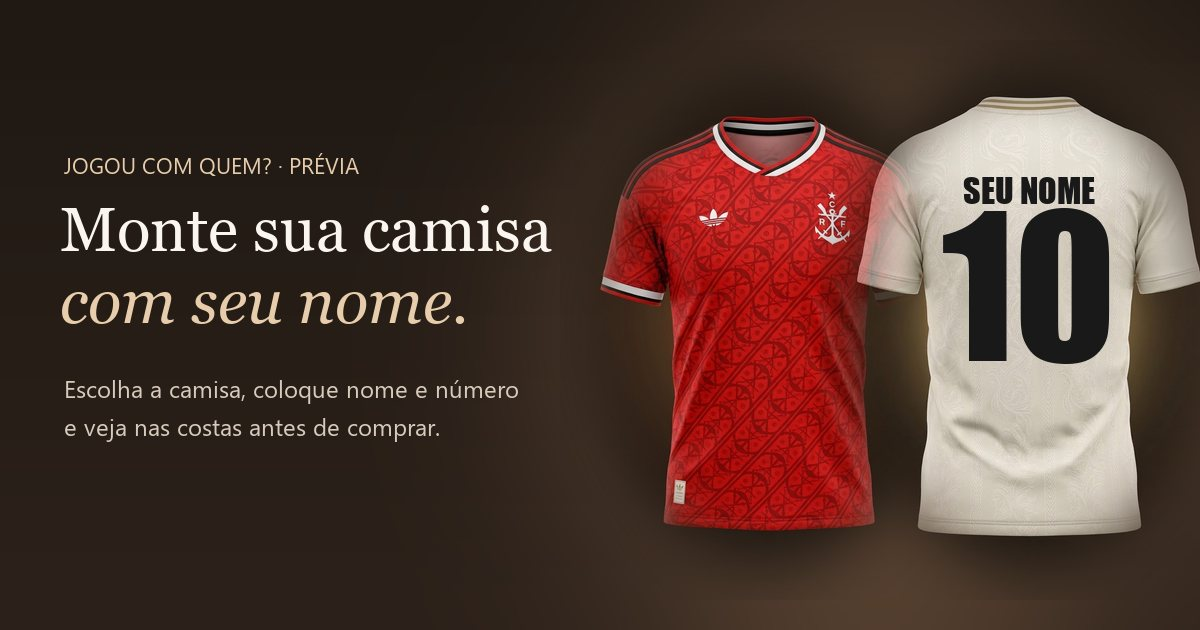
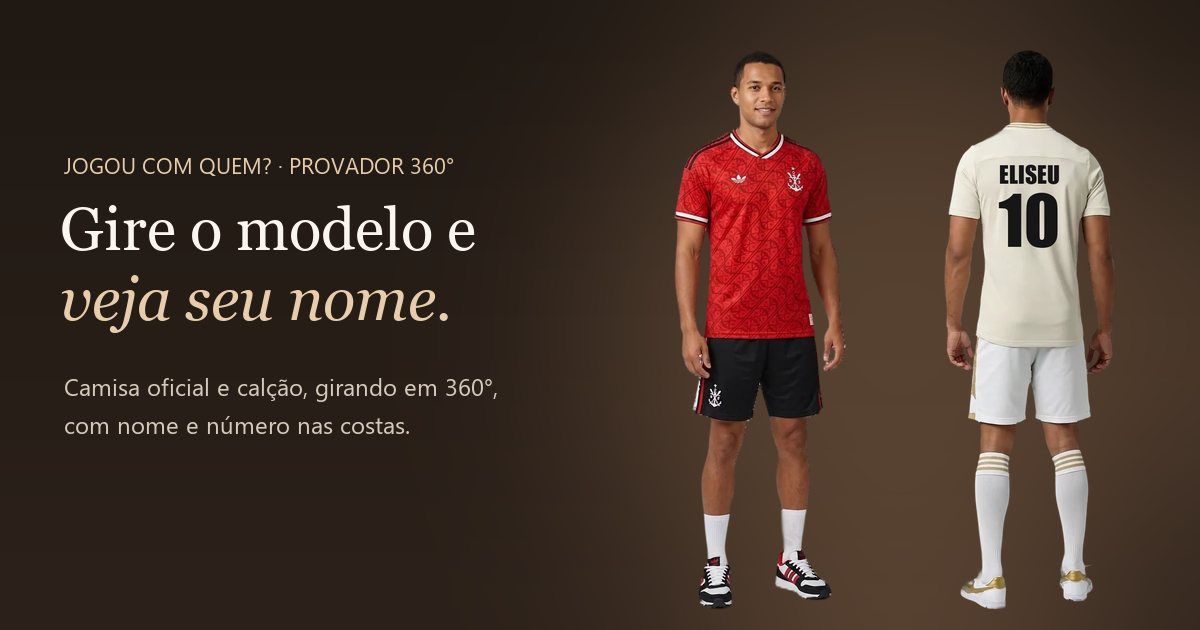
JCQ: provador 360 com modelo, nome e numero nas costas

diff --git a/demo/jcq/index.html b/demo/jcq/index.html
@@ -5,9 +5,9 @@
 <meta name="viewport" content="width=device-width, initial-scale=1.0, viewport-fit=cover" />
 <meta name="robots" content="noindex, nofollow" />
 <meta name="theme-color" content="#14100d" />
-<title>Monte sua camisa · Prévia</title>
-<meta property="og:title" content="Monte sua camisa com seu nome e número" />
-<meta property="og:description" content="Escolha a camisa, coloque seu nome e número e veja nas costas antes de comprar." />
+<title>Provador 360° · Jogou com Quem?</title>
+<meta property="og:title" content="Provador 360° · Monte sua camisa com seu nome" />
+<meta property="og:description" content="Gire o modelo com o dedo, coloque seu nome e número e veja nas costas antes de comprar." />
 <meta property="og:image" content="https://creativealways.com.br/demo/jcq/img/og.jpg" />
 <meta property="og:image:width" content="1200" />
 <meta property="og:image:height" content="630" />
@@ -17,151 +17,185 @@
 <style>
   :root { --bg:#14100d; --card:#1f1813; --line:rgba(250,246,239,.14); --gold:#e7cdac; --txt:#faf6ef; --mute:rgba(250,246,239,.62); }
   * { box-sizing:border-box; margin:0; padding:0; -webkit-tap-highlight-color:transparent; }
-  html, body { background:var(--bg); color:var(--txt); font-family:'Plus Jakarta Sans', system-ui, sans-serif; }
+  html, body { background:var(--bg); color:var(--txt); font-family:'Plus Jakarta Sans', system-ui, sans-serif; overflow-x:hidden; }
   body { min-height:100vh; min-height:100dvh; display:flex; flex-direction:column; align-items:center;
-    background: radial-gradient(ellipse 70% 50% at 50% 34%, rgba(150,112,82,.28), transparent 70%), linear-gradient(180deg,#1f1813,#14100d); }
-  header { width:100%; max-width:520px; padding:16px 16px 6px; display:flex; justify-content:space-between; align-items:center; }
-  .brand { font-weight:700; font-size:15px; letter-spacing:.02em; }
+    background: radial-gradient(ellipse 60% 42% at 50% 30%, rgba(150,112,82,.30), transparent 72%), linear-gradient(180deg,#1f1813,#14100d); }
+  body::before { content:'Jogou com Quem?'; position:fixed; left:50%; top:30%; transform:translate(-50%,-50%); font-family:Georgia, serif; font-style:italic;
+    font-size:clamp(64px, 17vw, 200px); color:rgba(235,210,181,.05); white-space:nowrap; pointer-events:none; z-index:0; }
+  header, main, footer { position:relative; z-index:1; }
+  header { width:100%; max-width:520px; padding:14px 16px 0; display:flex; justify-content:space-between; align-items:center; }
+  .brand { font-weight:700; font-size:15px; }
   .brand small { display:block; font-weight:500; font-size:10.5px; letter-spacing:.16em; text-transform:uppercase; color:var(--gold); }
   .tag { font-size:10px; letter-spacing:.14em; text-transform:uppercase; color:var(--mute); border:1px solid var(--line); padding:5px 9px; border-radius:99px; }
-  main { width:100%; max-width:520px; padding:0 16px 24px; display:flex; flex-direction:column; gap:14px; }
-  .stage { position:relative; width:100%; aspect-ratio:896/1200; max-height:56vh; margin:0 auto; perspective:1400px; touch-action:pan-y; cursor:grab; }
-  .flip { position:absolute; inset:0; transform-style:preserve-3d; transition:transform .6s cubic-bezier(.22,1,.36,1); }
-  .flip.is-back { transform:rotateY(180deg); }
-  .face { position:absolute; inset:0; backface-visibility:hidden; -webkit-backface-visibility:hidden; display:flex; justify-content:center; }
-  .face img { height:100%; width:auto; max-width:100%; object-fit:contain; display:block; user-select:none; -webkit-user-drag:none; pointer-events:none;
-    -webkit-mask-image: radial-gradient(ellipse 62% 58% at 50% 48%, #000 72%, transparent 100%); mask-image: radial-gradient(ellipse 62% 58% at 50% 48%, #000 72%, transparent 100%); }
-  html, body { overflow-x:hidden; }
-  .toggle, .shirts { grid-template-columns:minmax(0,1fr) minmax(0,1fr); }
-  .shirt { min-width:0; }
+  main { width:100%; max-width:520px; padding:0 16px 20px; display:flex; flex-direction:column; gap:12px; }
+  .stage { position:relative; width:min(100%, 46vh); aspect-ratio:760/1240; margin:0 auto; touch-action:none; cursor:grab; overflow:hidden; }
+  .zoomwrap { position:absolute; inset:0; transform-origin:50% 50%; transition:scale .15s ease-out, translate .1s ease-out; }
+  .frame { position:absolute; inset:0; width:100%; height:100%; object-fit:contain; opacity:0; pointer-events:none; user-select:none; -webkit-user-drag:none; }
+  .frame.on { opacity:1; }
+  .print { position:absolute; transform-origin:50% 0; text-align:center; font-family:'Anton', Impact, sans-serif; text-transform:uppercase; line-height:1; pointer-events:none; white-space:nowrap; }
+  .print .n { display:block; letter-spacing:.05em; }
+  .print .k { display:block; letter-spacing:-.01em; }
+  .print.light { color:#fff; text-shadow:0 1px 0 rgba(0,0,0,.18); }
+  .print.dark { color:#161616; mix-blend-mode:multiply; }
+  .zoom-reset { position:absolute; left:50%; top:8px; transform:translateX(-50%); z-index:5; display:none; padding:8px 14px; border-radius:99px;
+    background:rgba(18,14,11,.85); border:1px solid rgba(235,210,181,.4); color:var(--gold); font-size:12px; font-weight:600; }
+  .stage.zoomed .zoom-reset { display:block; }
+  .ctrl { display:flex; justify-content:center; align-items:center; gap:10px; margin-top:-2px; }
+  .ctrl button { width:40px; height:40px; border-radius:50%; border:1px solid var(--line); background:rgba(255,255,255,.04); color:var(--txt); font-size:18px; }
+  .ctrl span { font-size:12px; color:var(--mute); min-width:150px; text-align:center; }
+  .shirts { display:grid; grid-template-columns:minmax(0,1fr) minmax(0,1fr); gap:10px; }
+  .shirt { display:flex; gap:10px; align-items:center; padding:8px; border-radius:14px; border:1px solid var(--line); background:var(--card); text-align:left; color:var(--txt); min-width:0; }
+  .shirt img { width:42px; height:68px; object-fit:cover; border-radius:8px; background:#2a211b; }
   .shirt > span { min-width:0; }
-  .shirt b { white-space:nowrap; overflow:hidden; text-overflow:ellipsis; }
-  .fields { grid-template-columns:minmax(0,1fr) 92px; }
-  .face.back { transform:rotateY(180deg); }
-  .print { position:absolute; left:0; right:0; text-align:center; font-family:'Anton', Impact, sans-serif; text-transform:uppercase; pointer-events:none; line-height:1; }
-  .print.name { top:24%; font-size:min(6.2vw, 30px); letter-spacing:.06em; }
-  .print.num { top:31%; font-size:min(33vw, 168px); letter-spacing:-.01em; }
-  .print.light { color:#fff; text-shadow:0 1px 0 rgba(0,0,0,.18); opacity:.96; }
-  .print.dark { color:#151515; mix-blend-mode:multiply; opacity:.92; }
-  .hint { text-align:center; font-size:12px; color:var(--mute); margin-top:-4px; }
-  .toggle { display:grid; grid-template-columns:1fr 1fr; gap:8px; }
-  .btn { padding:12px; border-radius:12px; border:1px solid var(--line); background:rgba(255,255,255,.04); color:var(--txt); font-weight:600; font-size:14px; }
-  .btn.on { background:var(--gold); color:#191410; border-color:var(--gold); }
-  .shirts { display:grid; grid-template-columns:1fr 1fr; gap:10px; }
-  .shirt { display:flex; gap:10px; align-items:center; padding:8px; border-radius:14px; border:1px solid var(--line); background:var(--card); text-align:left; color:var(--txt); }
-  .shirt img { width:46px; height:60px; object-fit:cover; border-radius:8px; }
-  .shirt b { display:block; font-size:13px; }
-  .shirt span { font-size:11.5px; color:var(--mute); }
+  .shirt b { display:block; font-size:13px; white-space:nowrap; overflow:hidden; text-overflow:ellipsis; }
+  .shirt small { font-size:11.5px; color:var(--mute); }
   .shirt.on { border-color:var(--gold); box-shadow:0 0 0 1px var(--gold) inset; }
-  .fields { display:grid; grid-template-columns:1fr 92px; gap:10px; }
+  .fields { display:grid; grid-template-columns:minmax(0,1fr) 92px; gap:10px; }
   label { font-size:11.5px; color:var(--mute); display:block; margin-bottom:6px; }
-  input { width:100%; padding:13px 14px; border-radius:12px; border:1px solid var(--line); background:#120e0b; color:var(--txt); font-size:16px; font-weight:600; text-transform:uppercase; }
+  input { width:100%; padding:12px 14px; border-radius:12px; border:1px solid var(--line); background:#120e0b; color:var(--txt); font-size:16px; font-weight:600; text-transform:uppercase; }
   input:focus { outline:none; border-color:var(--gold); }
   .row { display:flex; gap:8px; flex-wrap:wrap; }
   .chip { padding:9px 12px; border-radius:10px; border:1px solid var(--line); background:rgba(255,255,255,.04); color:var(--txt); font-weight:600; font-size:13px; }
   .chip.on { background:var(--gold); color:#191410; border-color:var(--gold); }
   .price { display:flex; justify-content:space-between; align-items:center; padding:12px 14px; border-radius:14px; background:var(--card); border:1px solid var(--line); }
+  .price span { font-size:13px; color:var(--mute); }
   .price b { font-size:20px; color:var(--gold); }
   .cta { display:block; text-align:center; text-decoration:none; padding:15px; border-radius:99px; background:linear-gradient(135deg,#f1dcc0,#c9a07a); color:#191410; font-weight:700; font-size:15px; }
   footer { font-size:10.5px; letter-spacing:.14em; text-transform:uppercase; color:var(--mute); text-align:center; padding:4px 0 18px; }
+  @media (pointer: coarse) { .frame { transition:none; } }
 </style>
 </head>
 <body>
 <header>
-  <div class="brand">Jogou com Quem?<small>Monte sua camisa</small></div>
+  <div class="brand">Jogou com Quem?<small>Provador 360°</small></div>
   <span class="tag">Prévia</span>
 </header>
 <main>
   <div class="stage" id="stage">
-    <div class="flip" id="flip">
-      <div class="face front"><img id="imgFront" alt="Camisa de frente" /></div>
-      <div class="face back"><img id="imgBack" alt="Camisa de costas" />
-        <div class="print name" id="pName"></div>
-        <div class="print num" id="pNum"></div>
-      </div>
+    <div class="zoomwrap" id="zw">
+      <div id="frames"></div>
+      <div class="print" id="print"><span class="n" id="pN"></span><span class="k" id="pK"></span></div>
     </div>
+    <button class="zoom-reset" id="zr" type="button">Voltar ao tamanho normal</button>
   </div>
-  <p class="hint">Arraste para o lado ou toque nos botões para virar a camisa</p>
-  <div class="toggle">
-    <button class="btn on" id="bFront" type="button">Frente</button>
-    <button class="btn" id="bBack" type="button">Costas</button>
-  </div>
+  <div class="ctrl"><button type="button" id="prev" aria-label="Girar para a esquerda">‹</button><span id="hint">Arraste para girar · pinça para zoom</span><button type="button" id="next" aria-label="Girar para a direita">›</button></div>
   <div class="shirts" id="shirts"></div>
   <div class="fields">
     <div><label for="iName">Nome nas costas</label><input id="iName" maxlength="12" placeholder="SEU NOME" autocomplete="off" /></div>
     <div><label for="iNum">Número</label><input id="iNum" inputmode="numeric" maxlength="2" placeholder="10" autocomplete="off" /></div>
   </div>
-  <div>
-    <label>Versão</label>
-    <div class="row" id="vers"></div>
-  </div>
-  <div>
-    <label>Tamanho</label>
-    <div class="row" id="sizes"></div>
-  </div>
-  <div class="price"><span id="sum">Camisa torcedor</span><b id="val">R$ 179,90</b></div>
+  <div><label>Versão</label><div class="row" id="vers"></div></div>
+  <div><label>Tamanho</label><div class="row" id="sizes"></div></div>
+  <div class="price"><span id="sum"></span><b id="val"></b></div>
   <a class="cta" id="cta" target="_blank" rel="noopener">Quero essa no WhatsApp</a>
 </main>
 <footer>Prévia · Creative Always</footer>
+<script src="print.js?v=1"></script>
 <script>
 (() => {
-  const SHIRTS = [
-    { id: 'fla', name: 'Flamengo III 26/27', front: 'img/fla_frente.jpg', back: 'img/fla_costas.jpg', ink: 'light' },
-    { id: 'vasco', name: 'Vasco Círio de Nazaré 26', front: 'img/vasco_frente.jpg', back: 'img/vasco_costas.jpg', ink: 'dark' }
+  const V = '?v=1';
+  const KITS = [
+    { id: 'fla', name: 'Flamengo III 26/27', kit: 'camisa + calção', ink: 'light' },
+    { id: 'vasco', name: 'Vasco Círio de Nazaré 26', kit: 'camisa + calção', ink: 'dark' }
   ];
   const VERS = [{ id: 'Torcedor', price: 'R$ 179,90' }, { id: 'Jogador', price: 'R$ 199,90' }];
   const SIZES = ['P', 'M', 'G', 'GG', 'Infantil'];
   const WA = '5527988140076';
-  const st = { shirt: SHIRTS[0], ver: VERS[0], size: 'M', back: false };
+  const N = 24;
   const $ = (s) => document.querySelector(s);
-  const flip = $('#flip');
+  const q = new URLSearchParams(location.search);
+  const st = { kit: KITS.find((k) => k.id === q.get('camisa')) || KITS[0], ver: VERS[0], size: 'M', deg: 0, target: 0, vel: 0, drag: false, auto: true };
+  if (q.get('angulo')) { st.deg = st.target = Number(q.get('angulo')) || 0; st.auto = false; }
+  $('#iName').value = (q.get('nome') || 'ELISEU').slice(0, 12);
+  $('#iNum').value = (q.get('numero') || '10').replace(/\D/g, '').slice(0, 2);
 
-  // pré-carrega as 4 fotos (são poucas e leves)
-  SHIRTS.forEach((s) => { [s.front, s.back].forEach((u) => { const i = new Image(); i.src = u; }); });
+  const src = (k, i) => `img/f/${k}_${String(i * 15).padStart(3, '0')}.webp${V}`;
+  let imgs = [];
+  function mount() {
+    const box = $('#frames'); box.innerHTML = '';
+    imgs = Array.from({ length: N }, (_, i) => { const im = document.createElement('img'); im.className = 'frame'; im.alt = ''; im.decoding = 'async'; im.src = src(st.kit.id, i); box.appendChild(im); return im; });
+    cur = -1; draw();
+  }
+  // pré-carrega a outra camisa depois de um tempo, sem travar a abertura
+  setTimeout(() => KITS.forEach((k) => { if (k !== st.kit) for (let i = 0; i < N; i++) { const im = new Image(); im.src = src(k.id, i); } }), 3500);
 
-  function render() {
-    $('#imgFront').src = st.shirt.front; $('#imgBack').src = st.shirt.back;
-    const name = $('#iName').value.trim().toUpperCase(); const num = $('#iNum').value.replace(/\D/g, '').slice(0, 2);
-    ['#pName', '#pNum'].forEach((s) => { const el = $(s); el.className = 'print ' + (s === '#pName' ? 'name ' : 'num ') + st.shirt.ink; });
-    $('#pName').textContent = name; $('#pNum').textContent = num;
-    flip.classList.toggle('is-back', st.back);
-    $('#bFront').classList.toggle('on', !st.back); $('#bBack').classList.toggle('on', st.back);
-    document.querySelectorAll('.shirt').forEach((b) => b.classList.toggle('on', b.dataset.id === st.shirt.id));
-    document.querySelectorAll('#vers .chip').forEach((b) => b.classList.toggle('on', b.dataset.v === st.ver.id));
-    document.querySelectorAll('#sizes .chip').forEach((b) => b.classList.toggle('on', b.dataset.s === st.size));
-    $('#sum').textContent = 'Camisa ' + st.ver.id.toLowerCase() + (name || num ? ' · ' + [name, num].filter(Boolean).join(' ') : '');
-    $('#val').textContent = st.ver.price;
-    const msg = 'Oi! Montei minha camisa na prévia:\n• ' + st.shirt.name + ' (' + st.ver.id + ')\n• Tamanho: ' + st.size + (name ? '\n• Nome: ' + name : '') + (num ? '\n• Número: ' + num : '') + '\nTem disponível?';
-    $('#cta').href = 'https://wa.me/' + WA + '?text=' + encodeURIComponent(msg);
+  let cur = -1;
+  const norm = (d) => ((d % 360) + 360) % 360;
+  function draw() {
+    const i = Math.round(norm(st.deg) / 15) % N;
+    if (i !== cur) { if (imgs[cur]) imgs[cur].classList.remove('on'); imgs[i].classList.add('on'); cur = i; placePrint(i); }
+  }
+  function placePrint(i) {
+    const p = (window.PRINT && window.PRINT[st.kit.id] || [])[i];
+    const el = $('#print');
+    const name = $('#iName').value.trim().toUpperCase(), num = $('#iNum').value.replace(/\D/g, '').slice(0, 2);
+    el.className = 'print ' + st.kit.ink;
+    if (!p || p.o <= 0 || (!name && !num)) { el.style.display = 'none'; return; }
+    const W = $('#stage').clientWidth;
+    el.style.display = 'block'; el.className = 'print ' + st.kit.ink;
+    el.style.left = (p.x * 100) + '%'; el.style.top = (p.y * 100) + '%';
+    el.style.transform = `translateX(-50%) scaleX(${p.sx.toFixed(3)})`;
+    el.style.opacity = p.o.toFixed(2);
+    $('#pN').style.fontSize = (W * p.w * 0.16) + 'px';
+    $('#pK').style.fontSize = (W * p.w * 0.38) + 'px';
+    $('#pN').textContent = name; $('#pK').textContent = num;
   }
 
-  $('#shirts').innerHTML = SHIRTS.map((s) => `<button class="shirt" type="button" data-id="${s.id}"><img src="${s.front}" alt=""><span><b>${s.name}</b>a partir de R$ 179,90</span></button>`).join('');
+  let lastT = 0;
+  function loop(t) {
+    const dt = lastT ? Math.min(6, (t - lastT) / 16.67) : 1; lastT = t;
+    if (st.auto && !st.drag) st.target += 0.45 * dt;
+    else if (!st.drag && Math.abs(st.vel) > 0.05) { st.target += st.vel * dt; st.vel *= Math.pow(0.92, dt); }
+    st.deg += (st.target - st.deg) * (1 - Math.pow(1 - (st.drag ? 0.35 : 0.14), dt));
+    draw(); requestAnimationFrame(loop);
+  }
+
+  // toque: 1 dedo gira; 2 dedos = pinça (zoom); com zoom, 1 dedo move a imagem
+  const stage = $('#stage'), zw = $('#zw');
+  const Z = { z: 1, x: 0, y: 0, p: new Map(), pinch: null, pan: null };
+  const applyZ = () => { if (Z.z <= 1.02) { Z.z = 1; Z.x = 0; Z.y = 0; } zw.style.scale = String(Z.z); zw.style.translate = `${Z.x}px ${Z.y}px`; stage.classList.toggle('zoomed', Z.z > 1); };
+  let lx = 0;
+  stage.addEventListener('pointerdown', (e) => {
+    if (e.target.closest('.zoom-reset')) return;
+    Z.p.set(e.pointerId, { x: e.clientX, y: e.clientY }); try { stage.setPointerCapture(e.pointerId); } catch (_) {}
+    st.auto = false;
+    if (Z.p.size === 2) { const [a, b] = [...Z.p.values()]; Z.pinch = { d: Math.hypot(a.x - b.x, a.y - b.y), z: Z.z }; st.drag = false; return; }
+    if (Z.z > 1) { Z.pan = { x: e.clientX, y: e.clientY, ox: Z.x, oy: Z.y }; return; }
+    st.drag = true; lx = e.clientX; st.vel = 0;
+  });
+  stage.addEventListener('pointermove', (e) => {
+    if (!Z.p.has(e.pointerId)) return;
+    Z.p.set(e.pointerId, { x: e.clientX, y: e.clientY });
+    if (Z.pinch && Z.p.size === 2) { const [a, b] = [...Z.p.values()]; Z.z = Math.max(1, Math.min(3, Z.pinch.z * Math.hypot(a.x - b.x, a.y - b.y) / Z.pinch.d)); applyZ(); return; }
+    if (Z.pan) { Z.x = Z.pan.ox + e.clientX - Z.pan.x; Z.y = Z.pan.oy + e.clientY - Z.pan.y; applyZ(); return; }
+    if (st.drag) { const dx = e.clientX - lx; lx = e.clientX; const d = dx * (e.pointerType === 'touch' ? 0.7 : 0.5); st.target += d; st.vel = st.vel * 0.4 + d * 0.6; }
+  });
+  const end = (e) => { Z.p.delete(e.pointerId); if (Z.p.size < 2) Z.pinch = null; if (Z.p.size === 0) { Z.pan = null; st.drag = false; } };
+  stage.addEventListener('pointerup', end); stage.addEventListener('pointercancel', end);
+  $('#zr').addEventListener('click', () => { Z.z = 1; applyZ(); });
+  $('#prev').addEventListener('click', () => { st.auto = false; st.target -= 30; });
+  $('#next').addEventListener('click', () => { st.auto = false; st.target += 30; });
+
+  function render() {
+    document.querySelectorAll('.shirt').forEach((b) => b.classList.toggle('on', b.dataset.id === st.kit.id));
+    document.querySelectorAll('#vers .chip').forEach((b) => b.classList.toggle('on', b.dataset.v === st.ver.id));
+    document.querySelectorAll('#sizes .chip').forEach((b) => b.classList.toggle('on', b.dataset.s === st.size));
+    const name = $('#iName').value.trim().toUpperCase(), num = $('#iNum').value.replace(/\D/g, '').slice(0, 2);
+    $('#sum').textContent = 'Camisa ' + st.ver.id.toLowerCase() + (name || num ? ' · ' + [name, num].filter(Boolean).join(' ') : '');
+    $('#val').textContent = st.ver.price;
+    const msg = 'Oi! Montei minha camisa no provador:\n• ' + st.kit.name + ' (' + st.ver.id + ')\n• Tamanho: ' + st.size + (name ? '\n• Nome: ' + name : '') + (num ? '\n• Número: ' + num : '') + '\nTem disponível?';
+    $('#cta').href = 'https://wa.me/' + WA + '?text=' + encodeURIComponent(msg);
+    if (cur >= 0) placePrint(cur);
+  }
+  $('#shirts').innerHTML = KITS.map((k) => `<button class="shirt" type="button" data-id="${k.id}"><img src="img/f/${k.id}_000.webp${V}" alt=""><span><b>${k.name}</b><small>${k.kit} · R$ 179,90</small></span></button>`).join('');
   $('#vers').innerHTML = VERS.map((v) => `<button class="chip" type="button" data-v="${v.id}">${v.id}</button>`).join('');
   $('#sizes').innerHTML = SIZES.map((s) => `<button class="chip" type="button" data-s="${s}">${s}</button>`).join('');
-  document.querySelectorAll('.shirt').forEach((b) => b.addEventListener('click', () => { st.shirt = SHIRTS.find((s) => s.id === b.dataset.id); render(); }));
+  document.querySelectorAll('.shirt').forEach((b) => b.addEventListener('click', () => { const k = KITS.find((x) => x.id === b.dataset.id); if (k !== st.kit) { st.kit = k; Z.z = 1; applyZ(); mount(); } render(); }));
   document.querySelectorAll('#vers .chip').forEach((b) => b.addEventListener('click', () => { st.ver = VERS.find((v) => v.id === b.dataset.v); render(); }));
   document.querySelectorAll('#sizes .chip').forEach((b) => b.addEventListener('click', () => { st.size = b.dataset.s; render(); }));
-  $('#bFront').addEventListener('click', () => { st.back = false; render(); });
-  $('#bBack').addEventListener('click', () => { st.back = true; render(); });
-  // digitar já mostra as costas
-  ['#iName', '#iNum'].forEach((s) => $(s).addEventListener('input', () => { if (!st.back) st.back = true; render(); }));
-
-  // arrastar para o lado vira a camisa (só gesto horizontal claro; rolar a página continua normal)
-  const stage = $('#stage'); let sx = null, sy = null;
-  stage.addEventListener('pointerdown', (e) => { sx = e.clientX; sy = e.clientY; });
-  stage.addEventListener('pointerup', (e) => {
-    if (sx === null) return;
-    const dx = e.clientX - sx, dy = e.clientY - sy; sx = null;
-    if (Math.abs(dx) > 40 && Math.abs(dx) > Math.abs(dy) * 1.5) { st.back = !st.back; render(); }
-  });
-  stage.addEventListener('pointercancel', () => { sx = null; });
-  // link já personalizado: ?nome=RUBENS&numero=10&camisa=vasco
-  const q = new URLSearchParams(location.search);
-  if (q.get('nome')) $('#iName').value = q.get('nome').slice(0, 12);
-  if (q.get('numero')) $('#iNum').value = q.get('numero').replace(/\D/g, '').slice(0, 2);
-  if (q.get('camisa')) st.shirt = SHIRTS.find((s) => s.id === q.get('camisa')) || st.shirt;
-  if (q.get('nome') || q.get('numero')) st.back = true;
-  render();
+  // ao digitar, gira a camisa para mostrar as costas
+  ['#iName', '#iNum'].forEach((s) => $(s).addEventListener('input', () => { st.auto = false; const k = Math.round((st.target - 180) / 360); st.target = 180 + 360 * k; render(); }));
+  mount(); render(); requestAnimationFrame(loop);
 })();
 </script>
 </body>

diff --git a/demo/jcq/print.js b/demo/jcq/print.js
@@ -1,0 +1,1 @@
+window.PRINT = {"fla": [{"x": 0.4793, "y": 0.2429, "w": 0.4128, "sx": 0.12, "o": 0.0}, {"x": 0.5077, "y": 0.2438, "w": 0.4128, "sx": 0.12, "o": 0.0}, {"x": 0.5311, "y": 0.2454, "w": 0.4128, "sx": 0.12, "o": 0.0}, {"x": 0.5533, "y": 0.2456, "w": 0.4128, "sx": 0.12, "o": 0.0}, {"x": 0.5719, "y": 0.2477, "w": 0.4128, "sx": 0.12, "o": 0.0}, {"x": 0.5852, "y": 0.2498, "w": 0.4128, "sx": 0.12, "o": 0.0}, {"x": 0.5859, "y": 0.2495, "w": 0.4128, "sx": 0.12, "o": 0.0}, {"x": 0.5862, "y": 0.2475, "w": 0.4128, "sx": 0.259, "o": 0.0}, {"x": 0.5752, "y": 0.2454, "w": 0.4128, "sx": 0.5, "o": 0.53}, {"x": 0.5638, "y": 0.2449, "w": 0.4128, "sx": 0.707, "o": 1.0}, {"x": 0.5449, "y": 0.2456, "w": 0.4128, "sx": 0.866, "o": 1.0}, {"x": 0.5208, "y": 0.2464, "w": 0.4128, "sx": 0.966, "o": 1.0}, {"x": 0.4944, "y": 0.2457, "w": 0.4128, "sx": 1.0, "o": 1.0}, {"x": 0.4692, "y": 0.2454, "w": 0.4128, "sx": 0.966, "o": 1.0}, {"x": 0.4492, "y": 0.2462, "w": 0.4128, "sx": 0.866, "o": 1.0}, {"x": 0.4278, "y": 0.2467, "w": 0.4128, "sx": 0.707, "o": 1.0}, {"x": 0.4047, "y": 0.2459, "w": 0.4128, "sx": 0.5, "o": 0.53}, {"x": 0.3958, "y": 0.2448, "w": 0.4128, "sx": 0.259, "o": 0.0}, {"x": 0.3974, "y": 0.2448, "w": 0.4128, "sx": 0.12, "o": 0.0}, {"x": 0.4042, "y": 0.2436, "w": 0.4128, "sx": 0.12, "o": 0.0}, {"x": 0.4253, "y": 0.2448, "w": 0.4128, "sx": 0.12, "o": 0.0}, {"x": 0.4483, "y": 0.2443, "w": 0.4128, "sx": 0.12, "o": 0.0}, {"x": 0.4782, "y": 0.2446, "w": 0.4128, "sx": 0.12, "o": 0.0}, {"x": 0.508, "y": 0.2448, "w": 0.4128, "sx": 0.12, "o": 0.0}], "vasco": [{"x": 0.5135, "y": 0.2425, "w": 0.3922, "sx": 0.12, "o": 0.0}, {"x": 0.554, "y": 0.2429, "w": 0.3922, "sx": 0.12, "o": 0.0}, {"x": 0.5944, "y": 0.2429, "w": 0.3922, "sx": 0.12, "o": 0.0}, {"x": 0.6263, "y": 0.2436, "w": 0.3922, "sx": 0.12, "o": 0.0}, {"x": 0.6487, "y": 0.2441, "w": 0.3922, "sx": 0.12, "o": 0.0}, {"x": 0.6526, "y": 0.2442, "w": 0.3922, "sx": 0.12, "o": 0.0}, {"x": 0.6527, "y": 0.2442, "w": 0.3922, "sx": 0.12, "o": 0.0}, {"x": 0.644, "y": 0.2437, "w": 0.3922, "sx": 0.259, "o": 0.0}, {"x": 0.6334, "y": 0.2434, "w": 0.3922, "sx": 0.5, "o": 0.53}, {"x": 0.6098, "y": 0.2436, "w": 0.3922, "sx": 0.707, "o": 1.0}, {"x": 0.5793, "y": 0.2432, "w": 0.3922, "sx": 0.866, "o": 1.0}, {"x": 0.5431, "y": 0.2427, "w": 0.3922, "sx": 0.966, "o": 1.0}, {"x": 0.5084, "y": 0.2422, "w": 0.3922, "sx": 1.0, "o": 1.0}, {"x": 0.4748, "y": 0.2427, "w": 0.3922, "sx": 0.966, "o": 1.0}, {"x": 0.4487, "y": 0.2429, "w": 0.3922, "sx": 0.866, "o": 1.0}, {"x": 0.4282, "y": 0.2432, "w": 0.3922, "sx": 0.707, "o": 1.0}, {"x": 0.4175, "y": 0.2437, "w": 0.3922, "sx": 0.5, "o": 0.53}, {"x": 0.4099, "y": 0.244, "w": 0.3922, "sx": 0.259, "o": 0.0}, {"x": 0.4126, "y": 0.244, "w": 0.3922, "sx": 0.12, "o": 0.0}, {"x": 0.4199, "y": 0.244, "w": 0.3922, "sx": 0.12, "o": 0.0}, {"x": 0.4295, "y": 0.2437, "w": 0.3922, "sx": 0.12, "o": 0.0}, {"x": 0.4458, "y": 0.244, "w": 0.3922, "sx": 0.12, "o": 0.0}, {"x": 0.467, "y": 0.2442, "w": 0.3922, "sx": 0.12, "o": 0.0}, {"x": 0.4979, "y": 0.2444, "w": 0.3922, "sx": 0.12, "o": 0.0}]};
